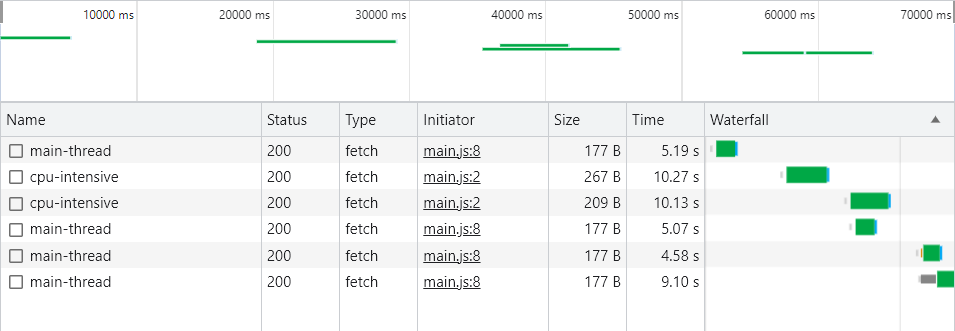
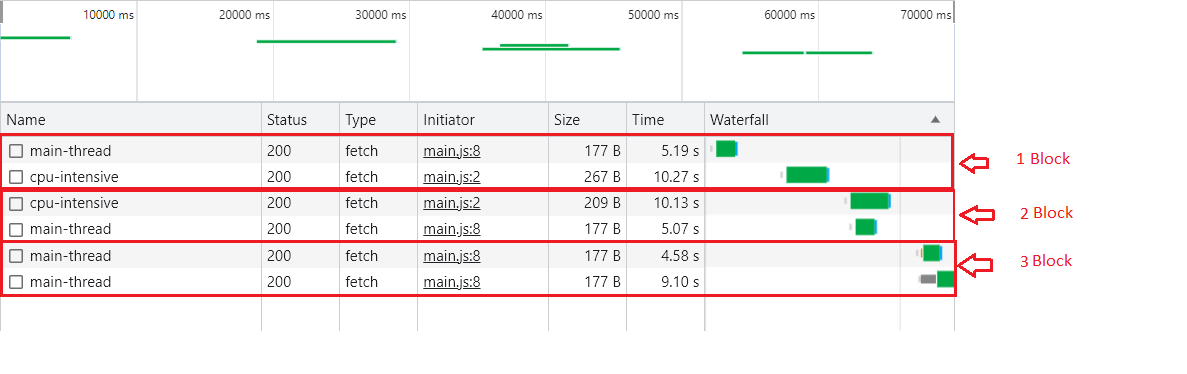
feat: update readme

diff --git a/README.md b/README.md
@@ -82,6 +82,18 @@ These requests run on the main event loop of our system. Unlike the CPU-intensiv
 
 **Observations:**
 
-When we initiate both a "CPU-Intensive Request" and a "Main-Thread Request" simultaneously, they execute concurrently. Each request follows its expected execution time, with the CPU-intensive request taking about 10 seconds and the main-thread request taking about 4 seconds.
+**Block 1: Sequential Execution**
 
-However, when we initiate the same "Main-Thread Request" twice in succession, we notice a sequential execution pattern. The second request waits for the completion of the first request before it starts executing. This is likely due to the single-threaded nature of the main event loop, which handles these requests sequentially.
+In this block, two types of API calls are made (**"Main-thread" API Call** and **CPU-Intensive API Call**) sequentially to observe their individual execution times, with minimal time spacing to prevent overlap.
+
+We have observed that **"Main-thread" API Call** is taking approximately 5 second and **CPU-Intensive API Call** is taking approximately 10 second to execute.
+
+**Block 2: Concurrent Execution with Queue**
+
+In this block, both **"Main-thread"** and **"CPU-intensive"** API calls are initiated simultaneously to observe how the system handles concurrency, particularly the parallel processing of **"CPU-intensive"** tasks through a separate queue.
+
+We have observed that the **"Main-thread"** API call's execution remains unaffected by the concurrent initiation of a **"CPU-intensive"** call, **"CPU-intensive"** API call's execution is managed in parallel using a separate processing mechanism, resulting in reduced impact on the "Main-thread" call's 
+
+**Block 3: Sequential "Main-thread" Calls**
+
+In this block, two consecutive "Main-thread" API calls are made, we notice a sequential execution pattern. The second request waits for the completion of the first request before it starts executing. This is likely due to the single-threaded nature of the main event loop, which handles these requests sequentially.
